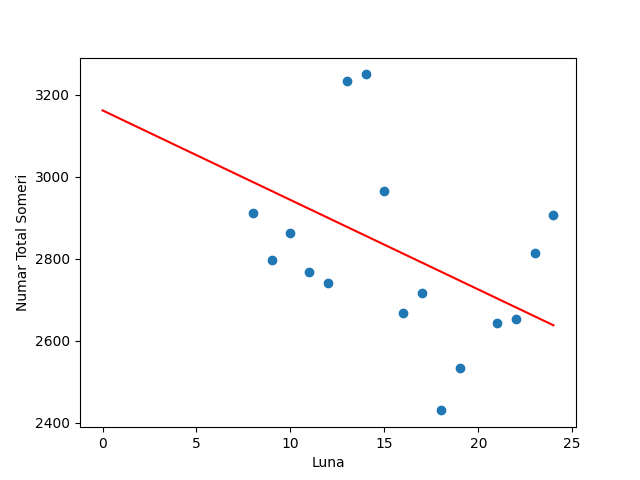
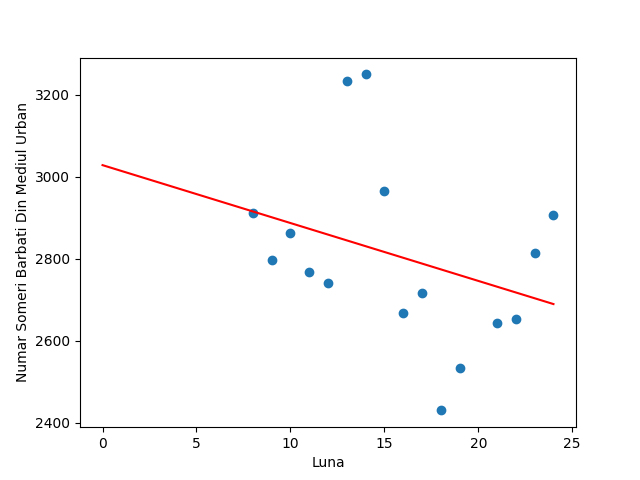
Performed hyperparamter tuning on the model

diff --git a/PredictionApp/unemployed_data.py b/PredictionApp/unemployed_data.py
@@ -19,7 +19,7 @@ class UnemployedData:
         datalist = lr.LinearRegression.get_datalist_from_dataframe(dataframe);
         [w0, w1] = lr.LinearRegression.linear_regression(datalist, epochs, label_name);
 
-        plot = lr.LinearRegression.plot_model(w0, w1, datalist,  'Luna', 'Numar Total Someri');
+        plot = lr.LinearRegression.plot_model(w0, w1, datalist,  feature_name, label_name);
         plot.savefig(plot_file_format);
         plot.close();
 

diff --git a/PredictionApp/predict.py b/PredictionApp/predict.py
@@ -1,7 +1,7 @@
 import unemployed_data as ud;
 
 input_document_format = './Data/medii-somaj-%s-%d.csv';
-epochs = 10000;
+epochs = 100000;
 
 plot_folder = './Plots/';
 output_folder = './Output/';
